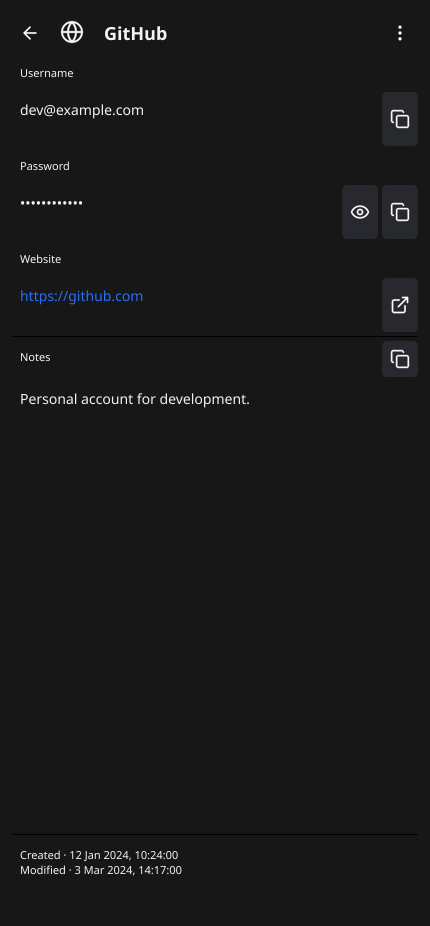
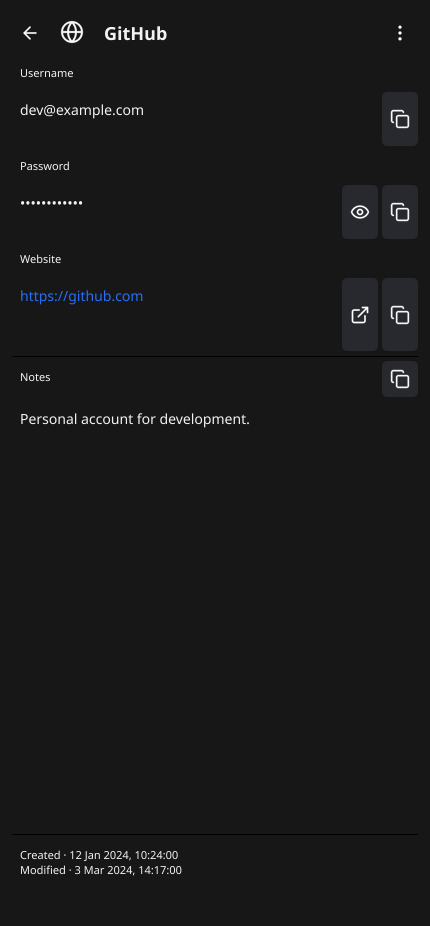
feat(ui): add copy action for website fields

Changed region(s): [[0.0302, 0.3629, 0.5744, 0.4536], [0.907, 0.3024, 0.9674, 0.4233], [0.8163, 0.3326, 0.8767, 0.3629]]

diff --git a/internal/ui/entry_detail_test.go b/internal/ui/entry_detail_test.go
@@ -210,7 +210,7 @@ func TestEntryDetailCredentialsAndActions(t *testing.T) {
 		}
 	}
 	require.NotContains(t, auditTexts(view), "synthetic-secret")
-	require.NotContains(t, buttons, "Copy Website")
+	require.Contains(t, buttons, "Copy Website")
 	require.Contains(t, buttons, "Copy Notes")
 	require.Contains(t, buttons, "Open website")
 	require.Contains(t, auditTexts(view), "dev@example.com")
@@ -223,6 +223,8 @@ func TestEntryDetailCredentialsAndActions(t *testing.T) {
 	require.NotContains(t, auditTexts(view), "synthetic-secret")
 	test.Tap(buttons["Copy Username"])
 	require.Equal(t, "dev@example.com", fyne.CurrentApp().Clipboard().Content())
+	test.Tap(buttons["Copy Website"])
+	require.Equal(t, "https://github.com", fyne.CurrentApp().Clipboard().Content())
 	test.Tap(buttons["Copy Notes"])
 	require.Equal(t, "Personal account for development.", fyne.CurrentApp().Clipboard().Content())
 	test.Tap(buttons["Entry actions"])
@@ -253,6 +255,23 @@ func TestEntryDetailCredentialsAndActions(t *testing.T) {
 	after, err := json.Marshal(item)
 	require.NoError(t, err)
 	require.JSONEq(t, string(before), string(after))
+}
+
+func TestDetailWebsiteCopiesUnopenableAddress(t *testing.T) {
+	test.NewTempApp(t)
+	const address = "ftp://example.com/archive"
+	view := detailWebsite(address)
+	test.NewTempWindow(t, view)
+	var copyButton *iconButton
+	for _, object := range test.LaidOutObjects(view) {
+		if button, ok := object.(*iconButton); ok && button.AccessibilityLabel() == "Copy Website" {
+			copyButton = button
+			break
+		}
+	}
+	require.NotNil(t, copyButton)
+	test.Tap(copyButton)
+	require.Equal(t, address, fyne.CurrentApp().Clipboard().Content())
 }
 
 func TestEntryDetailPasswordAndNote(t *testing.T) {

diff --git a/internal/ui/entry_detail.go b/internal/ui/entry_detail.go
@@ -242,9 +242,10 @@ func detailWebsite(address string) fyne.CanvasObject {
 	if strings.TrimSpace(address) == "" {
 		return nil
 	}
+	copyWebsite := newIconButton("Copy Website", icons.Copy, func() { detailCopy("Website", address) })
 	parsed, err := url.Parse(address)
 	if err != nil || parsed.Host == "" || (parsed.Scheme != "https" && parsed.Scheme != "http") {
-		return newDetailField("Website", newText(address, bodyStyle))
+		return newDetailField("Website", newText(address, bodyStyle), copyWebsite)
 	}
 	link := widget.NewHyperlink(address, parsed)
 	link.SizeName = bodyStyle.size
@@ -254,7 +255,7 @@ func detailWebsite(address string) fyne.CanvasObject {
 			fyne.LogError("could not open website", err)
 		}
 	})
-	return newDetailField("Website", link, open)
+	return newDetailField("Website", link, open, copyWebsite)
 }
 
 // preserveLineEdgeSpaces keeps leading and trailing spaces visible in Fyne labels.
